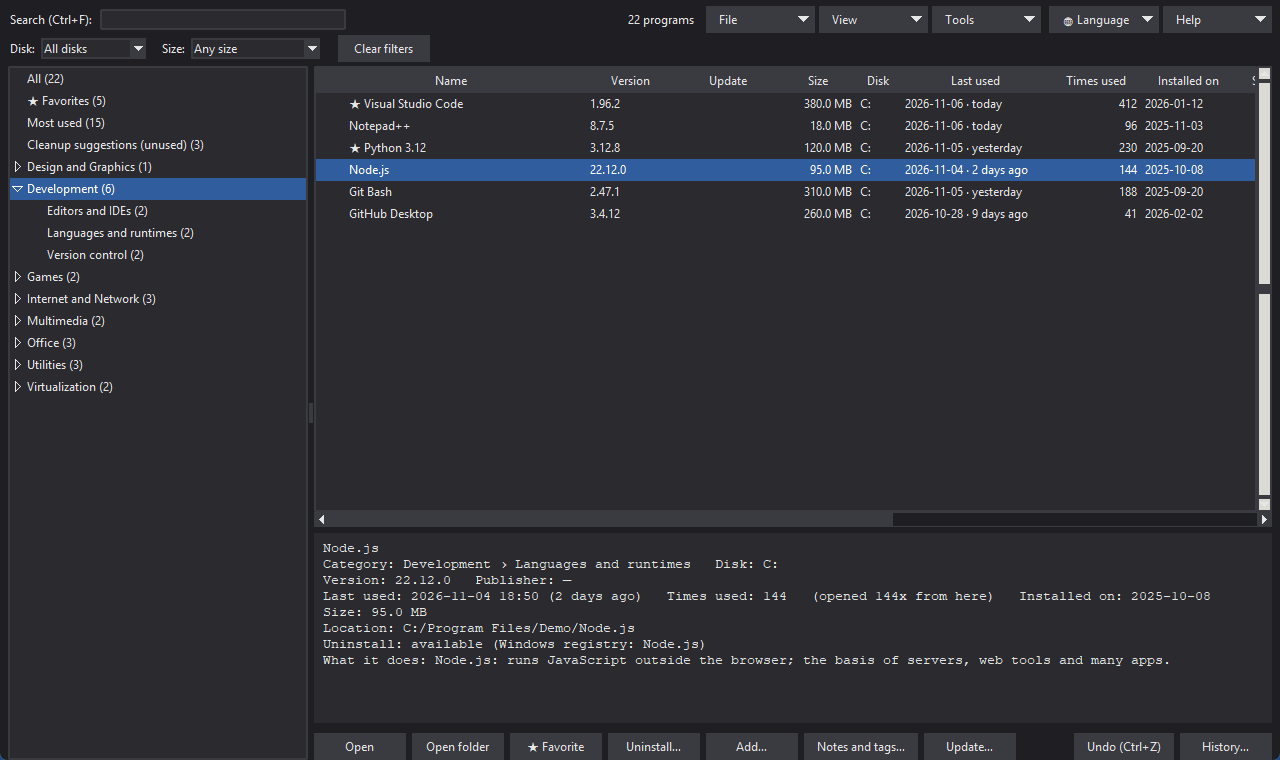
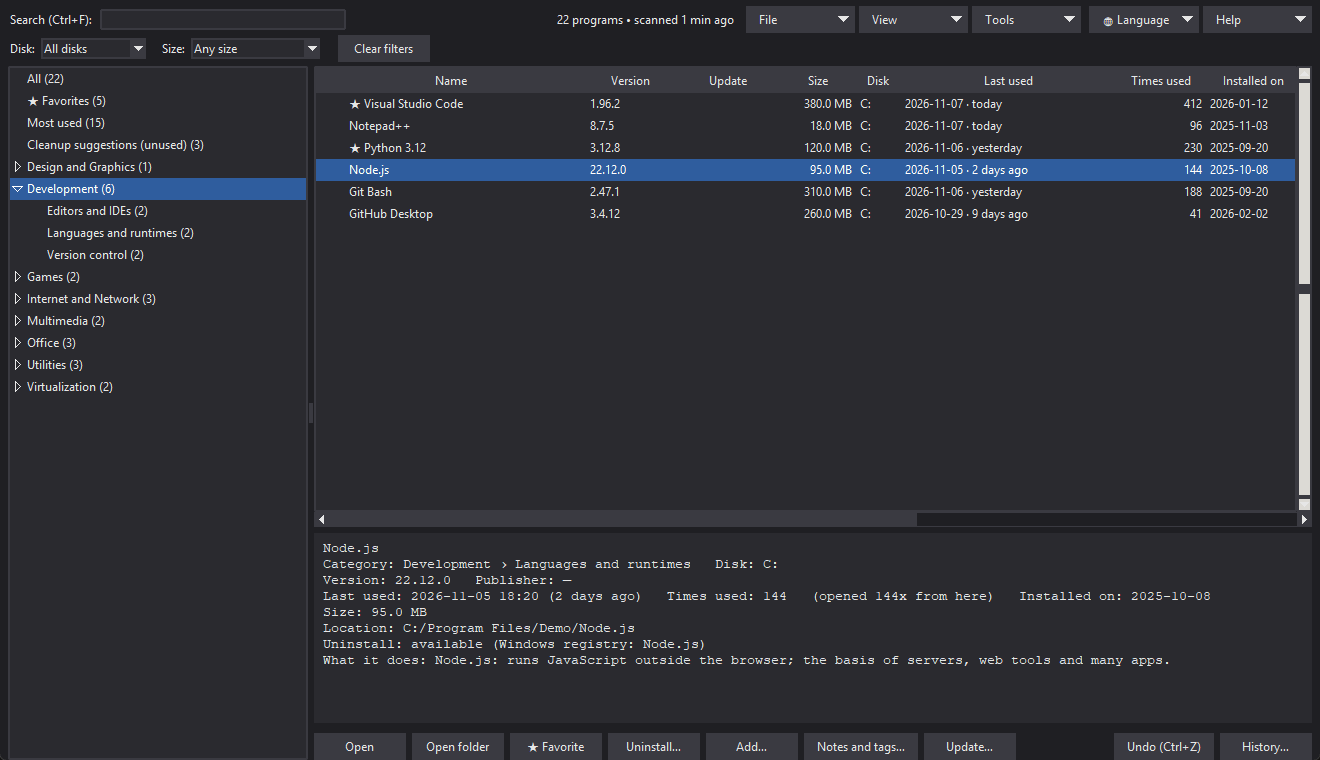
1.0.1: wider Last used column, scan age in the status bar, 73 more catalog entries

diff --git a/app.py b/app.py
@@ -12,7 +12,7 @@ from version import APP_NAME, VERSION, REPO_URL
 UPD = BASE / "updates.json"                   # cache of the last winget check
 BACKUPS = BASE / "backup"                     # configuration backups
 COLS = {"versao": (tr("Versão"), 90), "upd": (tr("Atualização"), 105), "tamanho": (tr("Tamanho"), 75), "disco": (tr("Disco"), 45),
-        "ultimo": (tr("Último uso"), 150), "vezes": (tr("Vezes usado"), 90), "instalado": (tr("Instalado em"), 95),
+        "ultimo": (tr("Último uso"), 190), "vezes": (tr("Vezes usado"), 90), "instalado": (tr("Instalado em"), 95),
         "inicia": (tr("Inicia com Windows"), 140), "tags": (tr("Tags"), 100), "cat": (tr("Categoria › Subcategoria"), 200),
         "local": (tr("Local"), 300)}
 DEFAULT_COLS = ["versao", "upd", "tamanho", "disco", "ultimo", "vezes", "instalado", "inicia", "cat", "local"]
@@ -111,7 +111,7 @@ class App(tk.Tk):
             self.iconphoto(True, self.logo)
         except tk.TclError:
             self.logo = None
-        self.geometry("1280x700")
+        self.geometry("1320x700")
         self.data = {"items": []}
         self.usr = read_json(USR, {})
         for k, v in (("favoritos", []), ("usos", {}), ("descricoes", {}), ("historico", []), ("manuais", []), ("ocultos", []),
@@ -511,8 +511,8 @@ class App(tk.Tk):
             self.cur_cat = "__all__"
         self.cats.selection_set(self.cur_cat)
         self.fill_table()
-        extra = []
-        if self.data.get("sizing"): extra.append(tr("calculando tamanhos…"))
+        head, extra = [tr("{n} programas", n=len(data))], []
+        if self.data.get("sizing"): head.append(tr("calculando tamanhos…"))
         nv = sum(1 for i in self.items if i.get("novo"))
         if nv: extra.append(tr("{n} novo(s)", n=nv))
         if self.data.get("removidos"): extra.append(tr("{n} removido(s)", n=len(self.data["removidos"])))
@@ -520,7 +520,29 @@ class App(tk.Tk):
             extra.append(tr("liberaria até {size} (sem uso há {dias}+ dias ou sem registro)", size=fmt(self.uniq_size(self.members("__old__", data))), dias=self.limpeza_dias))
         if self.upd_info.get("quando") and self.upd:
             extra.append(tr("{n} com atualização", n=len(self.upd)))
-        self.status.config(text=" • ".join([tr("{n} programas", n=len(data))] + extra))
+        self.status_parts = (head, extra)
+        self.show_status()
+
+    def show_status(self):
+        """Status bar text; the "scanned … ago" part is recomputed every minute."""
+        head, extra = self.status_parts
+        age = self.scan_age()
+        mid = [tr("escaneado {quando}", quando=age)] if age else []
+        self.status.config(text=" • ".join(head + mid + extra))
+        if getattr(self, "status_job", None): self.after_cancel(self.status_job)
+        self.status_job = self.after(60000, self.show_status)
+
+    def scan_age(self):
+        """How long ago index.json was generated ("5 min ago", "yesterday"…), or "" if unknown."""
+        try:
+            dt = datetime.datetime.strptime(self.data.get("gerado", ""), "%Y-%m-%d %H:%M")
+        except ValueError:
+            return ""
+        mins = int((datetime.datetime.now() - dt).total_seconds() // 60)
+        if mins < 1: return tr("agora há pouco")
+        if mins < 60: return tr("há {n} min", n=mins)
+        if mins < 24 * 60 and dt.date() == datetime.date.today(): return tr("há {n} h", n=mins // 60)
+        return usage.rel_days(dt)
 
     def on_cat(self, e):
         s = self.cats.selection()

diff --git a/version.py b/version.py
@@ -1,4 +1,4 @@
 """App identity (used in the window, in "About" and in the build)."""
 APP_NAME = "App-Manager"
-VERSION = "1.0.0"
+VERSION = "1.0.1"
 REPO_URL = "https://github.com/thomasmeneghelli/App-Manager"

diff --git a/help/es.md b/help/es.md
@@ -40,7 +40,7 @@ La aplicación solo lee información. Cambia algo únicamente cuando usted lo pi
 - **Panel izquierdo:** categorías con el número de programas. Haga clic en la flecha para abrir las **subcategorías** (por ejemplo, Desarrollo › Editores e IDE).
 - **Panel derecho:** lista con icono, nombre, versión, tamaño, disco, categoría › subcategoría y ubicación. Haga clic en el título de una columna para ordenar.
 - **Pie:** detalles del elemento seleccionado (categoría, disco, versión, fabricante, cuántas veces se abrió desde aquí, tamaño, ubicación, si hay desinstalador y para qué sirve).
-- **Barra de estado** (arriba a la derecha): total mostrado, «calculando tamaños…», nuevos y eliminados.
+- **Barra de estado** (arriba a la derecha): total mostrado, «calculando tamaños…», hace cuánto se hizo el último escaneo («escaneado hace 5 min»; si es antiguo, use Reescanear), nuevos y eliminados.
 
 ## Columnas: último uso, veces usado, instalado el
 

diff --git a/help/pt.md b/help/pt.md
@@ -40,7 +40,7 @@ O app só lê informações. Ele só altera algo quando você manda: desinstalar
 - **Painel esquerdo:** categorias com a contagem de programas. Clique na seta para abrir as **subcategorias** (por exemplo, Desenvolvimento › Editores e IDEs).
 - **Painel direito:** lista com ícone, nome, versão, tamanho, disco, categoria › subcategoria e local. Clique no título de uma coluna para ordenar.
 - **Rodapé:** detalhes do item selecionado (categoria, disco, versão, fabricante, quantas vezes foi aberto por aqui, tamanho, local, se há desinstalador e para que serve).
-- **Barra de status** (canto superior direito): total exibido, "calculando tamanhos…", novos e removidos.
+- **Barra de status** (canto superior direito): total exibido, "calculando tamanhos…", quanto tempo faz o último scan ("escaneado há 5 min"; se estiver velho, use Reescanear), novos e removidos.
 
 ## Colunas: último uso, vezes usado, instalado em
 

diff --git a/help/en.md b/help/en.md
@@ -40,7 +40,7 @@ The app only reads information. It changes something only when you ask: uninstal
 - **Left pane:** categories with the number of programs. Click the arrow to open the **subcategories** (for example, Development › Editors and IDEs).
 - **Right pane:** list with icon, name, version, size, disk, category › subcategory and location. Click a column title to sort.
 - **Footer:** details of the selected item (category, disk, version, publisher, how many times it was opened from here, size, location, whether there is an uninstaller and what it does).
-- **Status bar** (top right): total shown, "calculating sizes…", new and removed.
+- **Status bar** (top right): total shown, "calculating sizes…", how long ago the last scan ran ("scanned 5 min ago"; if it is old, use Rescan), new and removed.
 
 ## Columns: last used, times used, installed on
 
